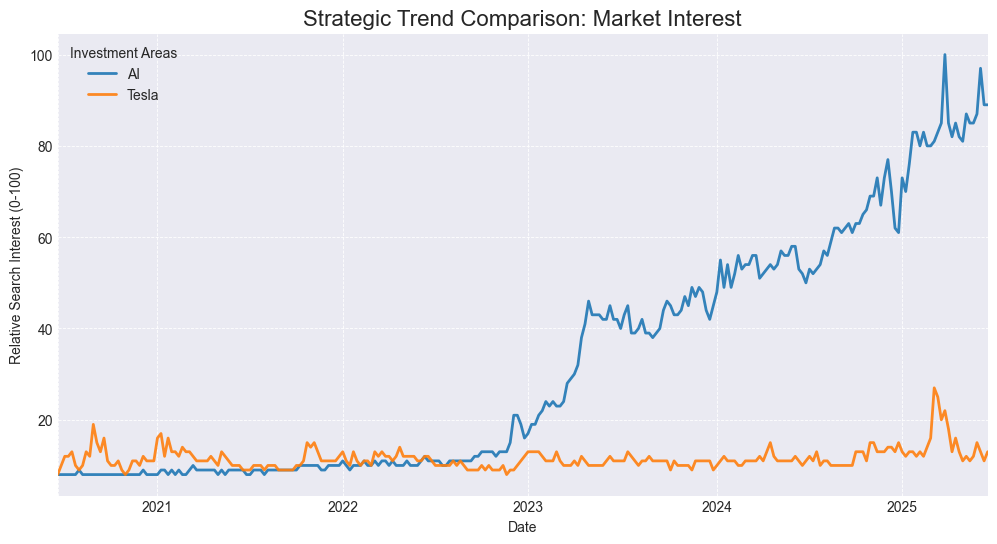
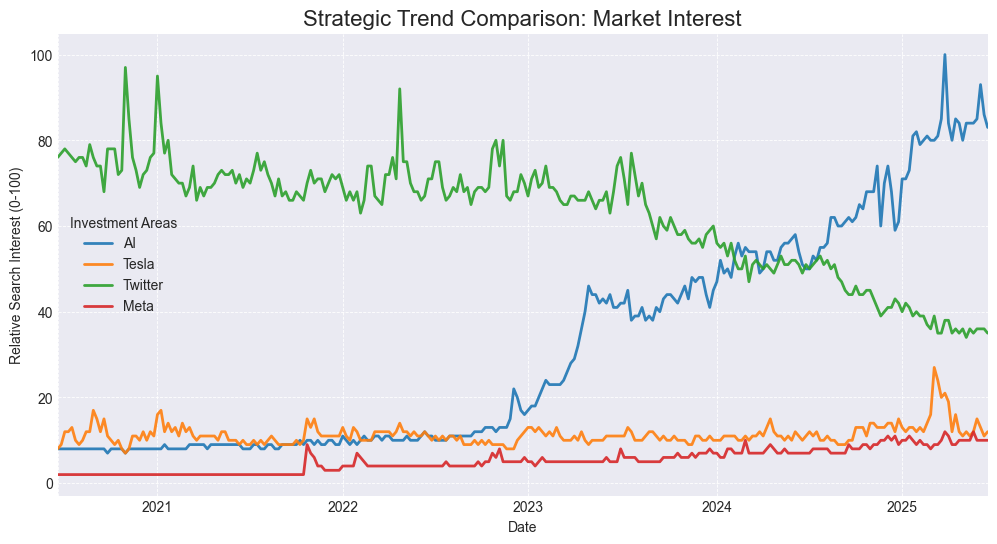
update

diff --git a/app.py b/app.py
@@ -11,27 +11,21 @@ import vertexai
 from vertexai.generative_models import GenerativeModel, SafetySetting
 from pytrends.request import TrendReq
 import matplotlib
-
-# Logika Adaptif untuk Lingkungan Berbeda
-# Cek apakah aplikasi berjalan di lingkungan server (seperti Cloud Run)
-# Variabel 'K_SERVICE' secara otomatis diatur oleh Google Cloud Run.
-if os.getenv('K_SERVICE'):
-    # Jika ya, gunakan backend 'Agg' yang tidak memerlukan GUI.
-    matplotlib.use('Agg')
-
+matplotlib.use('Agg')  
 import matplotlib.pyplot as plt
 import seaborn as sns
 import time
+
 
 load_dotenv()
 
 app = Flask(__name__)
 
-# --- Inisialisasi Model & Layanan ---
 try:
     model = load_model('model/best_model.h5')
     le = joblib.load('Mapping/label_encoder_kategori.pkl')
     scaler = joblib.load('Mapping/scaler_startup_success.pkl')
+    
     background = np.zeros((10, len(scaler.feature_names_in_) + 1))
     def model_predict(X):
         return model.predict(X).flatten()
@@ -52,7 +46,6 @@ safety_settings = [
     for cat in SafetySetting.HarmCategory
 ]
 
-# --- Fungsi-fungsi Helper ---
 def calculate_age_in_years(date_str):
     today = datetime.today()
     try:
@@ -73,6 +66,7 @@ def generate_reason_with_values(shap_vals, features, label_output, original_valu
     }
     positive_reasons, negative_reasons = [], []
     shap_list = sorted(list(zip(features, shap_vals[0])), key=lambda x: abs(x[1]), reverse=True)
+
     for feat, val in shap_list:
         nilai_asli = original_values.get(feat, 0)
         unit = " years" if "umur" in feat else ""
@@ -82,11 +76,13 @@ def generate_reason_with_values(shap_vals, features, label_output, original_valu
             nilai_fmt = f"{int(nilai_asli / 1_000_000):,} million"
         else:
             nilai_fmt = f"{int(nilai_asli):,}"
+        
         label_feat = display_labels.get(feat, feat.replace('_', ' '))
         if label_output.lower() == 'failure':
             direction_text = 'reduces the risk of failure' if val > 0 else 'increases the risk of failure'
         else:
             direction_text = 'supports the potential for success' if val > 0 else 'reduces the potential for success'
+        
         reason_text = f"'{label_feat}' ({nilai_fmt}{unit}) {direction_text}"
         if val > 0:
             positive_reasons.append(reason_text)
@@ -116,8 +112,6 @@ def predict_and_explain(data_dict):
         shap_array, list(scaler.feature_names_in_) + ['populer'], label, inverse_values
     )
     return label, pos_reason, neg_reason
-
-# --- Rute Aplikasi ---
 
 @app.route('/')
 def home():
@@ -160,38 +154,30 @@ def forecaster():
         keywords_string = request.form.get('keywords')
         if not keywords_string or not keywords_string.strip():
             return render_template('forecaster.html', error="Input cannot be empty. Please enter at least one keyword.")
-        
+
         temp_list = [keyword.strip() for keyword in keywords_string.split(',')]
         keywords_list = [keyword for keyword in temp_list if keyword]
-        
+
         if not keywords_list:
             return render_template('forecaster.html', error="Invalid input. Please enter valid keywords.")
         
         keywords_list = keywords_list[:5]
-        
+
         try:
-            # Menggunakan konfigurasi Pytrends yang lebih tangguh
-            pytrends = TrendReq(
-                hl='en-US',
-                tz=360,
-                timeout=(10, 25),
-                retries=2,
-                backoff_factor=0.3,
-                requests_args={"headers": {"User-Agent": "Mozilla/5.0"}}
-            )
-            
-            pytrends.build_payload(keywords_list, cat=0, timeframe='today 1-y', geo='', gprop='')
+            pytrends = TrendReq(hl='en-US', tz=360)
+            pytrends.build_payload(keywords_list, cat=0, timeframe='today 5-y', geo='', gprop='')
             interest_df = pytrends.interest_over_time()
 
             if 'isPartial' in interest_df.columns:
                 interest_df = interest_df.drop(columns=['isPartial'])
-            
+
             if interest_df.empty:
-                return render_template('forecaster.html', error="Could not retrieve data. The keywords might be too niche or have no search volume.")
+                return render_template('forecaster.html', error="Could not retrieve data. The keywords might be too specific or have no search volume.")
             
             plt.style.use('seaborn-v0_8-darkgrid')
             fig, ax = plt.subplots(figsize=(12, 6))
             interest_df.plot(kind='line', ax=ax, lw=2, alpha=0.9)
+            
             ax.set_title('Strategic Trend Comparison: Market Interest', fontsize=16)
             ax.set_ylabel('Relative Search Interest (0-100)')
             ax.set_xlabel('Date')
@@ -204,8 +190,9 @@ def forecaster():
             plt.close(fig)
             
             return render_template('forecaster.html', plot_image=plot_path, timestamp=int(time.time()))
+
         except Exception as e:
-            error_msg = f"An error occurred while fetching data from Google Trends. This is common when running locally or on cloud servers due to network restrictions. Please try again later or use a different network. (Error: {e})"
+            error_msg = f"An error occurred. This could be due to a temporary issue with Google Trends or your network. (Error: {e})"
             return render_template('forecaster.html', error=error_msg)
             
     return render_template('forecaster.html')
@@ -218,9 +205,11 @@ def consultant():
 def generate_chat():
     if not CHAT_MODEL_LOADED:
         return jsonify({'response': 'Sorry, the chatbot model is currently unavailable.'})
+
     try:
         data = request.get_json()
         user_input = data['user_input']
+        
         system_instruction = (
             "You are Viola, a risk management consultant tasked with helping banks and investors make "
             "informed decisions about loans and funding, with a focus on evaluating the risk of startups, individuals, or institutions. "
@@ -229,8 +218,10 @@ def generate_chat():
             "'I'm sorry, I can only assist with questions about risk management, credit, and investment evaluation.'\n"
         )
         prompt = system_instruction + user_input
+        
         chat_session = chat_model.start_chat()
         response = chat_session.send_message(prompt, safety_settings=safety_settings)
+        
         return jsonify({'response': response.text})
     except Exception as e:
         return jsonify({'error': 'Internal server error'}), 500
